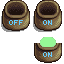
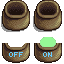
finished writing doc

diff --git a/FurnitureFramework/FurnitureTypeData/Particles.cs b/FurnitureFramework/FurnitureTypeData/Particles.cs
@@ -39,6 +39,7 @@ namespace FurnitureFramework
 
 			int frame_count;
 			int frame_length;
+			int loop_count;
 			bool hold_last;
 			bool flicker;
 
@@ -143,14 +144,15 @@ namespace FurnitureFramework
 				scale = JC.extract(particle_obj, "Scale", 1f);
 				scale_change = JC.extract(particle_obj, "Scale Change", 0f);
 
-				string color_name = JC.extract(particle_obj, "Color", "Lime");
+				string color_name = JC.extract(particle_obj, "Color", "White");
 				SDColor c_color = SDColor.FromName(color_name);
 				color = new(c_color.R, c_color.G, c_color.B);
 				alpha = JC.extract(particle_obj, "Alpha", 1f);
 				alpha_fade = JC.extract(particle_obj, "Alpha Fade", 0f);
 
-				frame_count = JC.extract(particle_obj, "Frame Count", 0);
-				frame_length = JC.extract(particle_obj, "Frame Duration", 0);
+				frame_count = JC.extract(particle_obj, "Frame Count", 1);
+				frame_length = JC.extract(particle_obj, "Frame Duration", 1000);
+				loop_count = JC.extract(particle_obj, "Loop Count", 1);
 				hold_last = JC.extract(particle_obj, "Hold Last Frame", false);
 				flicker = JC.extract(particle_obj, "Flicker", false);
 
@@ -260,13 +262,14 @@ namespace FurnitureFramework
 					// acceleration = Vector2.Zero,
 					animationLength = frame_count,
 					interval = frame_length,
+					totalNumberOfLoops = loop_count,
 					holdLastFrame = hold_last,
 					flicker = flicker,
 					layerDepth = depth / 10000f,
 					scale = scale,
 					scaleChange = scale_change,
 					rotation = rotation,
-					rotationChange = Game1.random.Next(-5, 6) * MathF.PI / 256f
+					rotationChange = rot_speed
 				});
 			}
 

diff --git a/FurnitureFramework/FurnitureTypeData/Sounds.cs b/FurnitureFramework/FurnitureTypeData/Sounds.cs
@@ -47,8 +47,6 @@ namespace FurnitureFramework
 
 		List<SoundData> sound_list = new();
 
-		public readonly bool has_toggle = false;
-
 		#region Sounds Parsing
 
 		public Sounds(JToken? sounds_token)
@@ -76,10 +74,6 @@ namespace FurnitureFramework
 						continue;
 					}
 					sound_list.Add(new_sound);
-					if (
-						new_sound.mode == SoundMode.on_turn_on ||
-						new_sound.mode == SoundMode.on_turn_off
-					) has_toggle = true;
 				}
 			}
 		}

diff --git a/doc/Furniture.md b/doc/Furniture.md
@@ -13,17 +13,20 @@ Once again, this documentation uses the [Example Pack](https://github.com/Leroym
 	* [Source Rect](#source-rect)
 	* [Collisions](#collisions)
 * [Optional Fields](#optional-fields)
-	* [Icon Rect](#icon-rect)
-	* [Seasonal](#seasonal)
+	* [Force Type](#force-type)
 	* [Price](#price)
 	* [Indoor & Outdoor](#indoor--outdoor)
-	* [Exclude from Random Sales](#exclude-from-random-sales)
 	* [Context Tags](#exclude-from-random-sales)
+	* [Exclude from Random Sales](#exclude-from-random-sales)
 	* [Shows in Shops](#shows-in-shops)
 	* [Shop Id](#shop-id)
+	* [Icon Rect](#icon-rect)
+	* [Seasonal](#seasonal)
 	* [Layers](#layers)
 	* [Seats](#seats)
 	* [Slots](#slots)
+	* [Toggle](#toggle)
+	* [Sounds](#sounds)
 
 ## Required Fields
 
@@ -102,58 +105,9 @@ This field is also the first [Directional Field](https://github.com/Leroymilo/Fu
 
 ### Collisions
 
-This field defines the collisions of your Furniture, it's what defines what part of the Furniture the player will not be able to walk through and place other Furniture on.
-
-This field is [Directional](https://github.com/Leroymilo/FurnitureFramework/blob/main/doc/Directional%20Fields.md).
-
-It's 2 main properties give the size ***in game tiles*** of the bounding box:
-- "Width"
-- "Height"
-
-They are required to properly define a the collisions of a Furniture, they must be integers.
-
-The other propery of the Collisions field is its "Map", with it, you to decide for each tile of the bounding box if it is traversable or not. For example, this is the perfect tool if you want to make an arch that you can walk under.  
-To define a custom collision Map, you first have to write it as a square of characters of the size of the bounding box. Let's take the "Living Room" Furniture from the Example Pack, it's made of Furniture from the game to give a proper reference. Here's its main sprite:  
-![The main sprite for the Living Room Furniture](https://github.com/Leroymilo/FurnitureFramework/blob/main/doc/images/collision_map_example.gif)  
-This gif shows that its bounding box is 8x3, and its collision Map is represented by:
-```
-..XXXX..
-XX....XX
-......XX
-```
-In a collision Map, the tiles where the player can walk are represented by `.` and the tiles where they can't are represented by `X`. For now (maybe forever), the precision of the collision Map is limited to tiles.
-
-To properly put the collision Map in the Collisions model, the newlines have to be replaced by forward slashes `/`, which would look like this:
-```json
-{
-	"Width": 8,
-	"Height": 3,
-	"Map": "..XXXX../XX....XX/......XX"
-}
-```
-
-Note: if the topmost row or the rightmost column of your Map is fill with `.`, you can remove it and reduce the bounding box size accordingly.
-
-Note 2: if your Furniture uses a custom collision Map, there's a good chance that you'll have to define [Layers](#layers) to avoid layering issues.
+This field defines the collisions of your Furniture, it's what defines what part of the Furniture the player will not be able to walk through and place other Furniture on. Since they are quite complicated, they have their own [Collisions documentation](https://github.com/Leroymilo/FurnitureFramework/blob/main/doc/Collisions.md).
 
 ## Optional Fields
-
-### Icon Rect
-
-This field is another Rectangle, like a [Source Rect](#source-rect). This rectangle will tell the game which part of the texture to use to display the Furniture in the menu.
-
-### Seasonal
-
-This field will allow you to create Furniture with different Sprites depending on the season, it's a boolean (true or false).  
-If false, the [Source Image](#source-image) will be read as is and the mod will try to read the image from this path.   If true, the mod will try to read an image for each season, based on the given Source Image path. For example, if Source Image is `assets/bush.png`, the mod will try to read these 4 images:
-- `assets/bush_spring.png`
-- `assets/bush_summer.png`
-- `assets/bush_fall.png`
-- `assets/bush_winter.png`
-
-:warning: If any of these images is missing, the Furniture won't be created.
-
-The `seasonal_bush_test` in the Example Pack uses this feature.
 
 ### Force Type
 
@@ -178,13 +132,13 @@ This is the default price of the Furniture, it will be used if it is added to a 
 
 These fields define if the Furniture can be placed respectively indoor and outdoor. They both accept boolean values (true or false, without quotation marks), and default to true. If both are set to false, your Furniture will be indoor only because of how the game is coded.
 
-### Exclude from Random Sales
-
-This defines wether or not this Furniture will show-up in random sales in the vanilla Furniture Catalogue and other Furniture shops. It's a boolean value (true or false), defaulting to true.
-
 ### Context Tags
 
 This is an array (a list) of context tags you want to add to your Furniture, it defaults to an empty list. If you want to learn more about context tags, check [the wiki](https://stardewvalleywiki.com/Modding:Items#Context_tags).
+
+### Exclude from Random Sales
+
+This defines wether or not this Furniture will show-up in random sales in the vanilla Furniture Catalogue and other Furniture shops. It's a boolean value (true or false), defaulting to true.
 
 ### Shows in Shops
 
@@ -207,6 +161,23 @@ An example of this is in the [Example Pack](https://github.com/Leroymilo/Furnitu
 
 Note: the Shop ID is raw, your mod's UniqueID will not be prepended to it, so make sure it's unique (you can manually add your mod's ID to it for example).
 
+### Icon Rect
+
+This field is another Rectangle, like a [Source Rect](#source-rect). This rectangle will tell the game which part of the texture to use to display the Furniture in the menu.
+
+### Seasonal
+
+This field will allow you to create Furniture with different Sprites depending on the season, it's a boolean (true or false).  
+If false, the [Source Image](#source-image) will be read as is and the mod will try to read the image from this path.   If true, the mod will try to read an image for each season, based on the given Source Image path. For example, if Source Image is `assets/bush.png`, the mod will try to read these 4 images:
+- `assets/bush_spring.png`
+- `assets/bush_summer.png`
+- `assets/bush_fall.png`
+- `assets/bush_winter.png`
+
+:warning: If any of these images is missing, the Furniture won't be created.
+
+The `seasonal_bush_test` in the Example Pack uses this feature.
+
 ### Layers
 
 Layers are an important tool for making custom Furniture, they are necessary to properly display your Furniture when other objects are passing through it (the player, or other Furniture). Since they are quite complicated, they have their own [Layers documentation](https://github.com/Leroymilo/FurnitureFramework/blob/main/doc/Layers.md).
@@ -218,3 +189,17 @@ Seats are what allow the Farmer to sit on your Furniture (duh), since they are q
 ### Slots
 
 Slots are where you can place items or other Furniture on a table Furniture. Since they are quite complicated, they have their own [Slots documentation](https://github.com/Leroymilo/FurnitureFramework/blob/main/doc/Slots.md).
+
+### Toggle
+
+This field is boolean (true or false) and will make a Furniture toggleable. "Toggleable" means that it can be turned on and off with right-click.  
+When a Furniture can be toggled, every sprite in its spritesheet needs to be duplicated: for every "Source Rect" you defined (for the [base sprite](#source-rect) or for [Layers](#layers)), the origin of the Width of the Rectangle will be added to its horizontal position when the Furniture is turned on. This way, your Furniture can change how it looks when it's toggled.
+
+A good example of this is the `Custom Cauldron` Furniture in the Example Pack: you can see in its spritesheet that it has its base sprite in the top left corner, and a Layer in the bottom left corner, while the "On" variants of these sprites are on the left.  
+![Custom Cauldron spritesheet](https://raw.githubusercontent.com/Leroymilo/FurnitureFramework/main/%5BFF%5D%20Example%20Pack/assets/cauldron.png)
+
+### Sounds
+
+With sounds, you can make your Furniture play custom sound effects when you click on it! Since they are quite complicated, they have their own [Sounds documentation](https://github.com/Leroymilo/FurnitureFramework/blob/main/doc/Sounds.md).
+
+### Particles

diff --git a/doc/Particles.md b/doc/Particles.md
@@ -1,1 +1,96 @@
-Colors: https://learn.microsoft.com/en-us/dotnet/api/system.drawing.color?view=net-8.0#properties
+# How to define Custom Particles
+
+Custom Particles have a lot of fields, but don't be scared: most of them are not required.  
+If you need an example, the `Custom Cauldron` Furniture in the Example Pack has all its fields defined (even the optional fields for completeness).
+
+## Source Image
+
+Like the Source Image of a Furniture, a Particle can have it's own .png (or be stored in the same spritesheet as the Furniture). This field is required.
+
+## Source Rect
+
+Like the [Source Rect](https://github.com/Leroymilo/FurnitureFramework/blob/main/doc/Furniture.md#source-rect) of a Furniture, this tells the game which part of your image should be used for a single Particle. If making an animated Particle (see lower), this should be the Rectangle around the first frame.  
+If omitted, the Source Rect will be the size of the given image.
+
+## Emission Interval
+
+This field defines how much time passes between each Particle is emitted, it is mesured in whole milliseconds (no decimals). This field is required.  
+Setting this interval too low (less than 100) might cause issues because of the number of Particles that would be created.
+
+## Spawn Rect
+
+This field is another Rectangle, but this one defines the area of the sprite where the Particles will spawn. This field is required.  
+Be carefull, the Spawn Rect of a Particle is relative to the sprite, not to the whole spritesheet.  
+This field might be changed to be directionnal in the future.
+
+## Depths
+
+This is a list of decimal numbers from which the game will randomly pick to draw each Particle. A depth of 0 is at the front of the Furniture and a depth of Collisions.Height is at the back of the Furniture.  
+If you did not define any [Layers](https://github.com/Leroymilo/FurnitureFramework/blob/main/doc/Furniture.md#layers) for this Furniture, you probably don't have to worry about it.  
+
+If omitted, every Particle will spawn with a depth of 0.
+
+## Speed
+
+This is the initial speed of spawned Particles. This field is a Vector field, which means it has 2 properties:
+- "X" the horizontal speed
+- "Y" the vertical speed
+
+When properly defined it looks like this:
+```json
+"Speed": {"X": 0, "Y": -0.5}
+```
+
+It defaults to (0, 0) (the Particle do not move).
+
+Note: the vertical axis Y is directed downwars, which means that a Particule with a negative Y speed will go up.
+
+## Rotations
+
+This is a list of decimal numbers from which the game will randomly pick to draw each Particle. This field is in **Radians**, not in degrees.
+
+If omitted, every Particle will spawn upright.
+
+## Rotation Speeds
+
+This is a list of decimal numbers from which the game will randomly pick to draw each Particle. The unit is unknown, but 0.05 is already quite fast for reference.
+
+If omitted, every Particle will spawn without rotating.
+
+## Scaling
+
+The `Scale` is a decimal number defining the scale of Particles. Defaults to 1.
+
+The `Scale Change` is a decimal number defining the rate at which the Particles will change scale. If it's positive, the Particles will grow and vice-versa. Defaults to 0.
+
+## Color
+
+The `Color` is the _Name_ of a color that you want to apply to your particles. See [here](https://learn.microsoft.com/en-us/dotnet/api/system.drawing.color?view=net-8.0#properties) for a list of accepted color names (R, G, B and A are not accepted). Defaults to White (will not change the color of the Particle).
+
+## Transparency
+
+`Alpha` is a decimal number defining the transparency of Particles, 0 means fully transparent and 1 means fully opaque. Defaults to 1.
+
+`Alpha Fade` is a decimal number defining the rate at which the transparency of Particles decreases. Defaults to 0 (the transparency doesn't change).
+
+## Animation Properties
+
+You can make animated Particles by using these fields:
+- The "Frame Count" is the number of frames in your animation.
+- The "Frame Duration" is how long each frame will last, measured in milliseconds.
+- The "Loop Count" is how many times your animation will loop (untested).
+- "Hold Last Frame" (true or false) will stay on the last frame of your animation one it has finished playing and looping.
+- "Flicker" (true or false) will make your animation flicker (untested).
+
+## Mode Options
+
+There are a few more options defining when a Particle will spawn:
+- `Emit When On` (true or false)
+- `Emit When Off` (true or false)
+
+If the Furniture is not [Toggleable](https://github.com/Leroymilo/FurnitureFramework/blob/main/doc/Furniture.md#toggle), it will be "Off" forever.
+
+## Burst
+
+To reproduce the effect happening when a Cauldron is turned on, you can set `Burst` to `true`, it will create a semi-hardcoded burst of particles upon toggleing or placing depending on the Mode options.  
+This feature is intended for Particles with non-zeros `Speed` and `Alpha Fade`.

diff --git a/doc/Collisions.md b/doc/Collisions.md
@@ -1,0 +1,34 @@
+# How to define Collisions?
+
+
+This field is [Directional](https://github.com/Leroymilo/FurnitureFramework/blob/main/doc/Directional%20Fields.md).
+
+It's 2 main properties give the size ***in game tiles*** of the bounding box:
+- "Width"
+- "Height"
+
+They are required to properly define a the collisions of a Furniture, they must be integers.
+
+The other propery of the Collisions field is its "Map", with it, you to decide for each tile of the bounding box if it is traversable or not. For example, this is the perfect tool if you want to make an arch that you can walk under.  
+To define a custom collision Map, you first have to write it as a square of characters of the size of the bounding box. Let's take the "Living Room" Furniture from the Example Pack, it's made of Furniture from the game to give a proper reference. Here's its main sprite:  
+![The main sprite for the Living Room Furniture](https://github.com/Leroymilo/FurnitureFramework/blob/main/doc/images/collision_map_example.gif)  
+This gif shows that its bounding box is 8x3, and its collision Map is represented by:
+```
+..XXXX..
+XX....XX
+......XX
+```
+In a collision Map, the tiles where the player can walk are represented by `.` and the tiles where they can't are represented by `X`. For now (maybe forever), the precision of the collision Map is limited to tiles.
+
+To properly put the collision Map in the Collisions model, the newlines have to be replaced by forward slashes `/`, which would look like this:
+```json
+{
+	"Width": 8,
+	"Height": 3,
+	"Map": "..XXXX../XX....XX/......XX"
+}
+```
+
+Note: if the topmost row or the rightmost column of your Map is fill with `.`, you can remove it and reduce the bounding box size accordingly.
+
+Note 2: if your Furniture uses a custom collision Map, there's a good chance that you'll have to define [Layers](https://github.com/Leroymilo/FurnitureFramework/blob/main/doc/Furniture.md#layers) to avoid layering issues.

diff --git a/doc/Sounds.md b/doc/Sounds.md
@@ -1,0 +1,20 @@
+# How to define Custom Sounds?
+
+Sounds are defined by only 2 fields:
+
+## Mode
+
+The Mode of a Sound tells the game when to play the sound, it can have 3 values:
+- "on_turn_on"
+- "on_turn_off"
+- "on_click"
+
+The "on_turn_on" and "on_turn_off" modes can only work if the Furniture is [Toggleable](https://github.com/Leroymilo/FurnitureFramework/blob/main/doc/Furniture.md#toggle), while "on_click" will work every time the Furniture is right-clicked (some actions like custom slots might block the sound).
+
+## Name
+
+The name of a Sound tells the game which sound to play when it is triggered, you can find a list of all the sound names that you can use [here](https://www.stardewvalleywiki.com/Modding:Audio#Sound).
+
+# Add new Sounds
+
+It is possible to use a Sound that is not already in the game by adding it with Content Patcher, more information about this [here](https://www.stardewvalleywiki.com/Modding:Migrate_to_Stardew_Valley_1.6#Custom_audio).

diff --git a/doc/Templates.md b/doc/Templates.md
@@ -303,9 +303,9 @@ You can also define a Shop in more details by using Content Patcher to patch Dat
 ## Cauldron
 
 A cauldron has 3 specific properties:
-- it is [Toggleable]()
-- it has a [Layer]()
-- it has [Particles]()
+- it is [Toggleable](https://github.com/Leroymilo/FurnitureFramework/blob/main/doc/Furniture.md#toggle)
+- it has a [Layer](https://github.com/Leroymilo/FurnitureFramework/blob/main/doc/Furniture.md#layers)
+- it has [Particles](https://github.com/Leroymilo/FurnitureFramework/blob/main/doc/Furniture.md#particles)
 
 This template can be easily reused, but make sure to understand each field before modifying it.
 

diff --git a/doc/ReadMe.md b/doc/ReadMe.md
@@ -46,6 +46,8 @@ What parts of Furniture I plan to add customization to in this Framework:
 - Animated textures
 - Custom special furniture (TV, Bed, Dresser)
 - Custom light sources
+- Add directionality to some fields of Particles
+- Add Particle list of scales and list of scale_changes
 
 # Known Issues
 

diff --git a/doc/Directional Fields.md b/doc/Directional Fields.md
@@ -1,4 +1,4 @@
-# What are Directional Fields
+# What are Directional Fields?
 
 Directional Fields is a type of field that *can* depend on the rotation of the Furniture.
 
